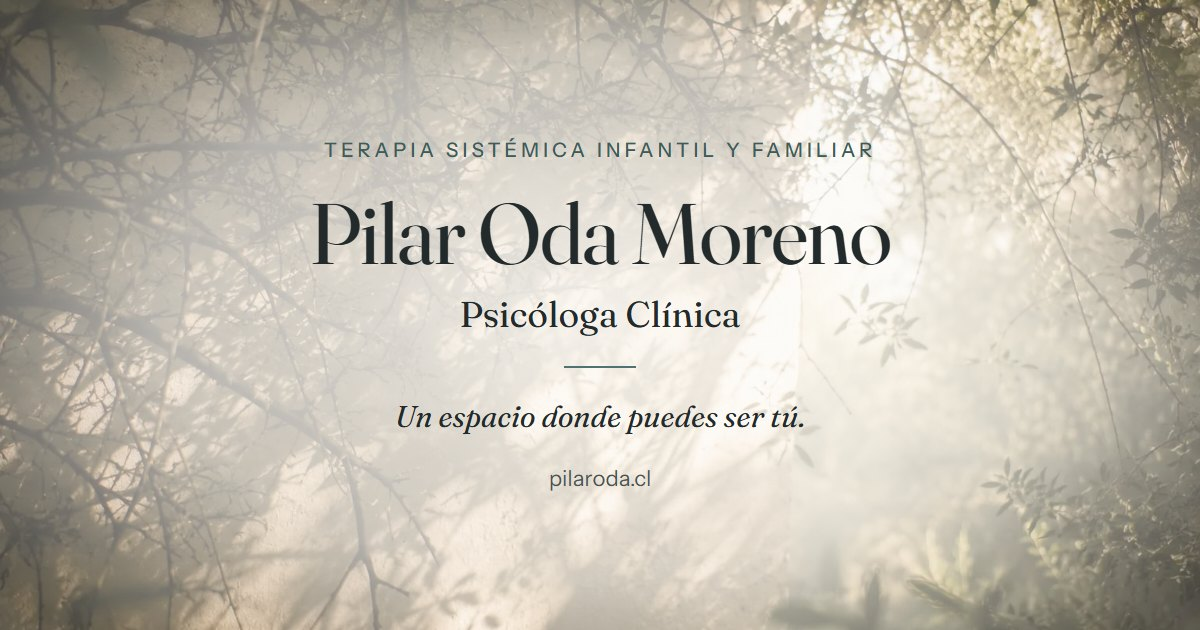
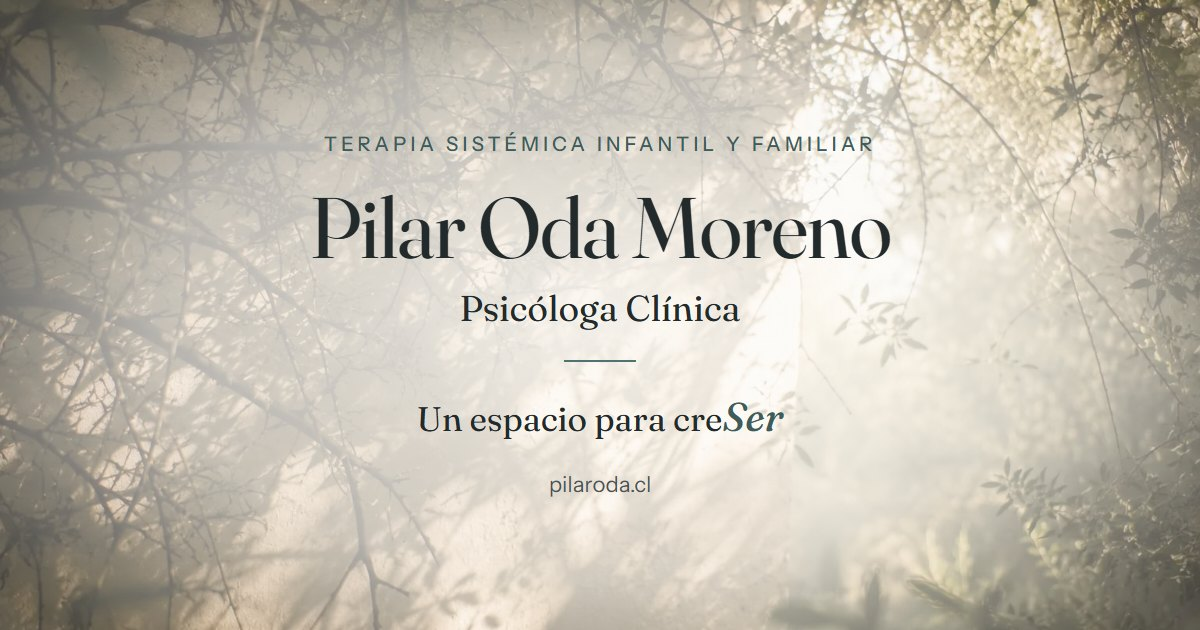
Change hero phrase to 'Un espacio para creSer'

diff --git a/index.html b/index.html
@@ -11,7 +11,7 @@
   <meta property="og:locale" content="es_CL">
   <meta property="og:site_name" content="Psicóloga Pilar Oda">
   <meta property="og:title" content="Terapia sistémica infantil y familiar · Psicóloga Pilar Oda">
-  <meta property="og:description" content="Un espacio donde puedes ser tú. No necesitas tenerlo todo claro para comenzar.">
+  <meta property="og:description" content="Un espacio para creSer. No necesitas tenerlo todo claro para comenzar.">
   <meta property="og:url" content="https://pilaroda.cl/">
   <meta property="og:image" content="https://pilaroda.cl/assets/og-image.jpg">
   <meta property="og:image:width" content="1200">
@@ -19,7 +19,7 @@
   <meta property="og:image:alt" content="Pilar Oda Moreno, psicóloga clínica. Terapia sistémica infantil y familiar">
   <meta name="twitter:card" content="summary_large_image">
   <meta name="twitter:title" content="Terapia sistémica infantil y familiar · Psicóloga Pilar Oda">
-  <meta name="twitter:description" content="Un espacio donde puedes ser tú. No necesitas tenerlo todo claro para comenzar.">
+  <meta name="twitter:description" content="Un espacio para creSer. No necesitas tenerlo todo claro para comenzar.">
   <meta name="twitter:image" content="https://pilaroda.cl/assets/og-image.jpg">
   <link rel="icon" href="assets/favicon-48.png" type="image/png" sizes="48x48">
   <link rel="apple-touch-icon" href="assets/apple-touch-icon.png">
@@ -103,7 +103,7 @@
       <div>
         <h1>Pilar Oda Moreno</h1>
         <p class="role">Psicóloga Clínica</p>
-        <p class="tag">Un espacio donde puedes ser tú.</p>
+        <p class="tag">Un espacio para cre<em>Ser</em></p>
         <a class="btn" href="https://wa.me/56931113691" target="_blank" rel="noopener">Agenda una primera sesión</a>
       </div>
     </section>

diff --git a/site.css b/site.css
@@ -59,7 +59,8 @@ nav a.active,nav a[aria-current] { color:var(--accent-dark) }
 .hero>div { position:relative;z-index:2;padding:4rem 1.25rem }
 .hero h1 { font-size:clamp(2.6rem,7vw,4.5rem);letter-spacing:-.015em }
 .hero .role { font-size:clamp(1.2rem,2.5vw,1.6rem);margin:.5rem 0 1.5rem }
-.hero .tag { font-size:1.15rem;margin:0 0 2rem }
+.hero .tag { font-size:clamp(1.35rem,3vw,1.8rem);letter-spacing:.01em;margin:0 0 2rem }
+.hero .tag em { font-size:1.18em;font-weight:500;color:var(--accent-dark) }
 .hero>div>* { animation:rise 1.3s var(--ease) both }
 .hero .role { animation-delay:.18s }
 .hero .tag { animation-delay:.36s }
